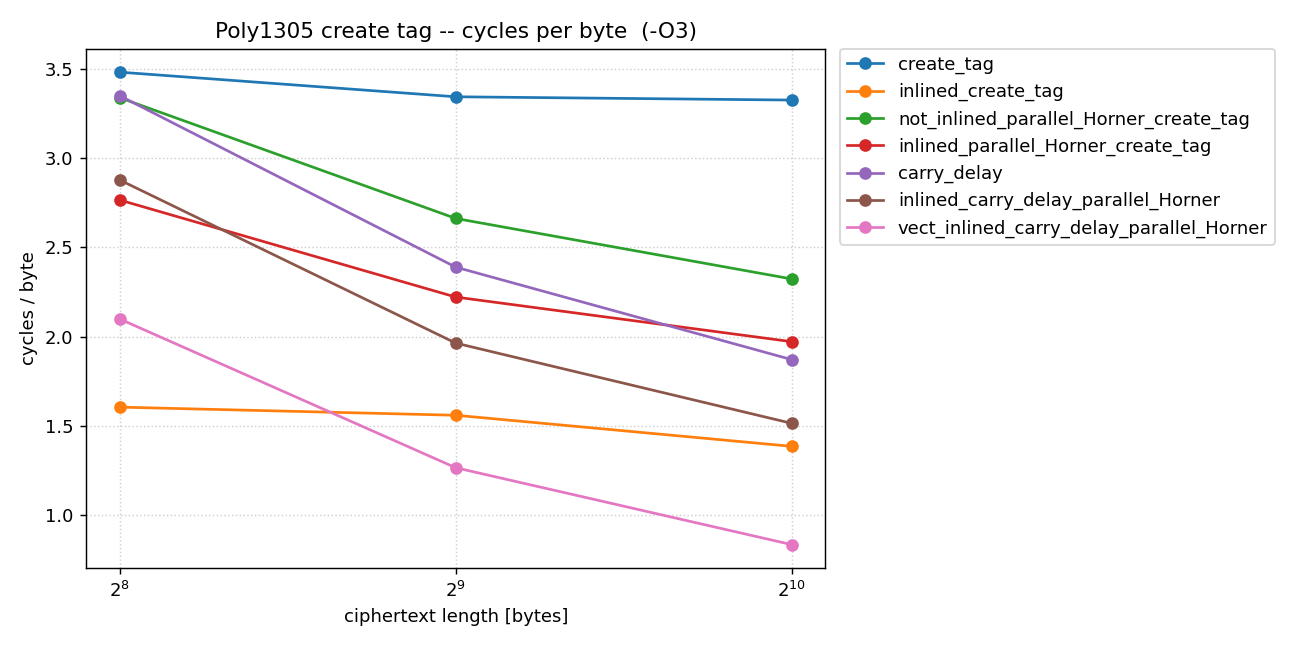
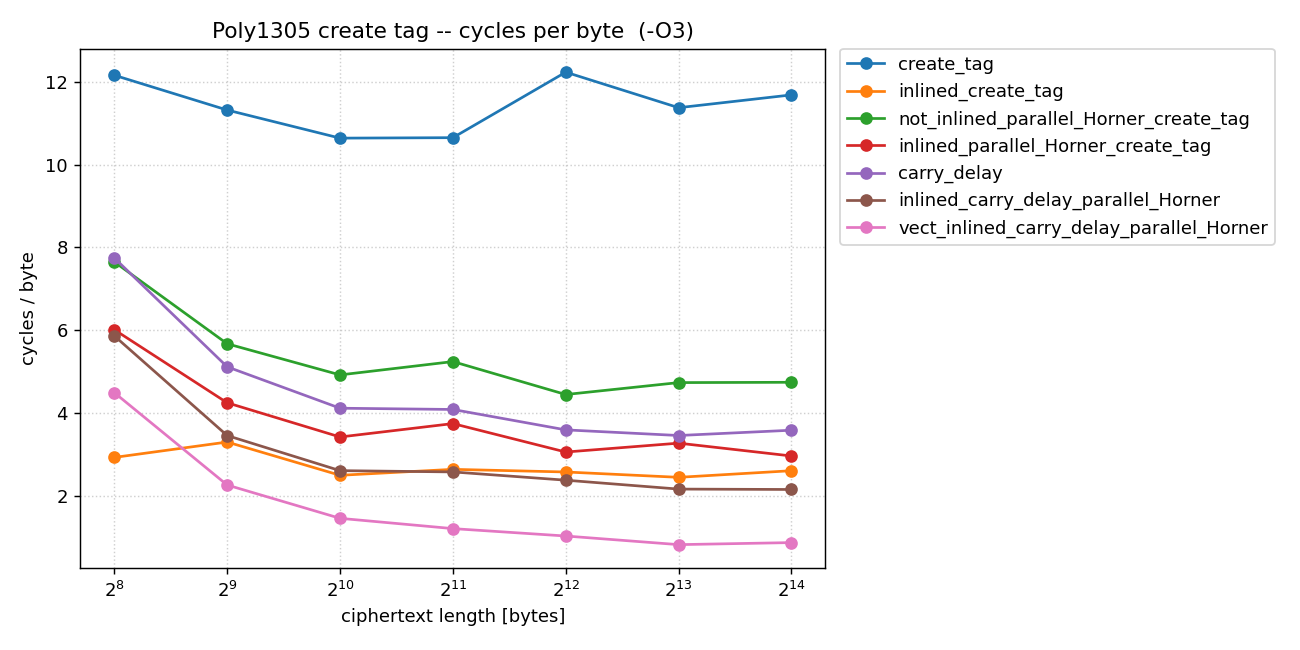
feat: now saves plots in figures/plots folder too and adjusted poly1305 roofline to take new function

diff --git a/time/poly1305/main_tag_choose_len.cpp b/time/poly1305/main_tag_choose_len.cpp
@@ -7,30 +7,57 @@
 #include "benchmark.h"
 #include "utils.h"
 #include "poly1305_tag_opt.h"
+#include "../include/op_computations.h"
 
 void register_functions();
 void add_function(poly1305_create_tag_func f, std::string name, int ops_per_block);
 
 static std::vector<poly1305_create_tag_func> userFuncs;
 static std::vector<std::string>        funcNames;
-static std::vector<int>                opsPerBlock;
 int numFuncs = 0;
 
-void add_function(poly1305_create_tag_func f, std::string name, int ops_per_block) {
+void add_function(poly1305_create_tag_func f, std::string name) {
     userFuncs.push_back(f);
     funcNames.push_back(name);
-    opsPerBlock.push_back(ops_per_block);
     numFuncs++;
 }
 
 void register_functions() {
-    add_function(&create_tag, "create_tag", 146);
-    add_function(&inlined_create_tag, "inlined_create_tag", 146);
-    add_function(&not_inlined_parallel_Horner_create_tag, "not_inlined_parallel_Horner_create_tag", 146);
-    add_function(&inlined_parallel_Horner_create_tag, "inlined_parallel_Horner_create_tag", 146);
-    add_function(&carry_delay, "carry_delay", 146);
-    add_function(&inlined_carry_delay_parallel_Horner, "inlined_carry_delay_parallel_Horner", 146);
-    add_function(&memory_vect_inlined_carry_delay_parallel_Horner, "vect_inlined_carry_delay_parallel_Horner", 146);
+    add_function(&create_tag, "create_tag");
+    add_function(&inlined_create_tag, "inlined_create_tag");
+    add_function(&not_inlined_parallel_Horner_create_tag, "not_inlined_parallel_Horner_create_tag");
+    add_function(&inlined_parallel_Horner_create_tag, "inlined_parallel_Horner_create_tag");
+    add_function(&carry_delay, "carry_delay");
+    add_function(&inlined_carry_delay_parallel_Horner, "inlined_carry_delay_parallel_Horner");
+    add_function(&memory_vect_inlined_carry_delay_parallel_Horner, "vect_inlined_carry_delay_parallel_Horner");
+}
+
+complexity_t get_poly1305_ops(const std::string& func_name, uint64_t data_len) {
+    if (func_name == "create_tag") {
+        return get_create_tag_baseline_complexity(data_len);
+    }
+    else if (func_name == "inlined_create_tag") {
+        return get_create_tag_inlined_complexity(data_len);
+    }
+    else if (func_name == "not_inlined_parallel_Horner_create_tag") {
+        return get_create_tag_not_inlined_parallel_Horner_complexity(data_len);
+    }
+    else if (func_name == "inlined_parallel_Horner_create_tag") {
+        return get_create_tag_inlined_parallel_Horner_complexity(data_len);
+    }
+    else if (func_name == "carry_delay") {
+        return get_create_tag_carry_delay_complexity(data_len);
+    }
+    else if (func_name == "inlined_carry_delay_parallel_Horner") {
+        return get_create_tag_inlined_carry_delay_parallel_Horner_complexity(data_len);
+    }
+    else if (func_name == "vect_inlined_carry_delay_parallel_Horner") {
+        return get_create_tag_vect_inlined_carry_delay_parallel_Horner_complexity(data_len);
+    }
+    else {
+        std::cerr << "ERROR: Unknown function name: " << func_name << "\n";
+        exit(1);
+    }
 }
 
 int main(int argc, char* argv[]) {
@@ -128,7 +155,8 @@ int main(int argc, char* argv[]) {
     std::ofstream opsFile("plots/poly1305_ops.csv");
     opsFile << "function_name,ops_per_block\n";
     for (int i = 0; i < numFuncs; i++) {
-        opsFile << funcNames[i] << "," << opsPerBlock[i] << "\n";
+        complexity_t ops_poly = get_poly1305_ops(funcNames[i], CTXT_LEN);
+        opsFile << funcNames[i] << "," << ops_poly.i_ops << "\n";
     }
     opsFile.close();
 

diff --git a/time/poly1305/plot_poly1305_benchmarks.py b/time/poly1305/plot_poly1305_benchmarks.py
@@ -19,6 +19,8 @@ import matplotlib.pyplot as plt
 
 PLOTS_DIR = os.path.join(os.path.dirname(__file__), "plots")
 CSV_GLOB = os.path.join(PLOTS_DIR, "poly1305_create_tag_*.csv")
+COMBINED_PLOTS_DIR = os.path.join(os.path.dirname(__file__), "../../figures/plots/poly1305")
+
 # set machine specific parameters
 PEAK_PERF = 4  # in ops/cycle
 PEAK_PERF_VEC = 24  # in ops/cycle for vectorized code
@@ -80,6 +82,8 @@ def plot_one(csv_path: str) -> None:
     fig.tight_layout()
     out_cycles = os.path.join(PLOTS_DIR, f"{base}_cycles.png")
     fig.savefig(out_cycles, dpi=130)
+    out_cycles = os.path.join(COMBINED_PLOTS_DIR, f"{base}_cycles.png")
+    fig.savefig(out_cycles, dpi=130)
     plt.close(fig)
 
     # Cycles per byte vs size (semi-log x)
@@ -99,6 +103,8 @@ def plot_one(csv_path: str) -> None:
     )
     fig.tight_layout()
     out_cpb = os.path.join(PLOTS_DIR, f"{base}_cpb.png")
+    fig.savefig(out_cpb, dpi=130)
+    out_cpb = os.path.join(COMBINED_PLOTS_DIR, f"{base}_cpb.png")
     fig.savefig(out_cpb, dpi=130)
     plt.close(fig)
 
@@ -121,7 +127,7 @@ def plot_one(csv_path: str) -> None:
     
     for fn in funcs:
         sizes_array = np.array(sizes)
-        total_ops = ops_map[fn] * (sizes_array // 16)
+        total_ops = np.array(ops_map[fn])
         op_intensity = total_ops / sizes_array
         ops_per_cycle = total_ops / data[fn]
         ax.scatter(op_intensity, ops_per_cycle, s=70, zorder=5, 
@@ -133,10 +139,10 @@ def plot_one(csv_path: str) -> None:
     ax.set_yscale("log", base=2)
     min_x = ridge_point / 4
     max_x = max(all_x) * 2
-    min_y = min(all_y) / 2
+    min_y = 1
     max_y = 26
-    ax.set_xlim(min_x, max_x)
-    ax.set_ylim(min_y, max_y)
+    #ax.set_xlim(min_x, max_x)
+    #ax.set_ylim(min_y, max_y)
     ax.set_xlabel("Operational Intensity [ops/bytes]")
     ax.set_ylabel("Performance [ops/cycle]")
     ax.set_title(f"Poly1305 create tag -- Roofline  (-O{opt_level})")
@@ -149,13 +155,15 @@ def plot_one(csv_path: str) -> None:
     fig.tight_layout()
     out_roofline = os.path.join(PLOTS_DIR, f"{base}_roofline.png")
     fig.savefig(out_roofline, dpi=130)
+    out_roofline = os.path.join(COMBINED_PLOTS_DIR, f"{base}_roofline.png")
+    fig.savefig(out_roofline, dpi=130)
     plt.close(fig)
 
     # Cycles/Ops vs size (log-log)
     fig, ax = plt.subplots(figsize=(10, 5))
     for fn in funcs:
         sizes_array = np.array(sizes)
-        total_ops = ops_map[fn] * (sizes_array // 26)
+        total_ops = np.array(ops_map[fn])
         ops_per_cycle = total_ops / data[fn]
         ax.plot(sizes, ops_per_cycle, marker="o", linewidth=1.5, label=fn)
 
@@ -172,6 +180,8 @@ def plot_one(csv_path: str) -> None:
     )
     fig.tight_layout()
     out_performance = os.path.join(PLOTS_DIR, f"{base}_performance.png")
+    fig.savefig(out_performance, dpi=130)
+    out_performance = os.path.join(COMBINED_PLOTS_DIR, f"{base}_performance.png")
     fig.savefig(out_performance, dpi=130)
     plt.close(fig)
 

diff --git a/time/poly2133/plot_poly2133_benchmarks.py b/time/poly2133/plot_poly2133_benchmarks.py
@@ -19,6 +19,8 @@ import matplotlib.pyplot as plt
 
 PLOTS_DIR = os.path.join(os.path.dirname(__file__), "plots")
 CSV_GLOB = os.path.join(PLOTS_DIR, "poly2133_create_tag_*.csv")
+COMBINED_PLOTS_DIR = os.path.join(os.path.dirname(__file__), "../../figures/plots/poly2133")
+
 # set machine specific parameters
 PEAK_PERF = 4  # in ops/cycle
 PEAK_PERF_VEC = 24  # in ops/cycle for vectorized code
@@ -80,6 +82,8 @@ def plot_one(csv_path: str) -> None:
     fig.tight_layout()
     out_cycles = os.path.join(PLOTS_DIR, f"{base}_cycles.png")
     fig.savefig(out_cycles, dpi=130)
+    out_cycles = os.path.join(COMBINED_PLOTS_DIR, f"{base}_cycles.png")
+    fig.savefig(out_cycles, dpi=130)
     plt.close(fig)
 
     # Cycles per byte vs size (semi-log x)
@@ -99,6 +103,8 @@ def plot_one(csv_path: str) -> None:
     )
     fig.tight_layout()
     out_cpb = os.path.join(PLOTS_DIR, f"{base}_cpb.png")
+    fig.savefig(out_cpb, dpi=130)
+    out_cpb = os.path.join(COMBINED_PLOTS_DIR, f"{base}_cpb.png")
     fig.savefig(out_cpb, dpi=130)
     plt.close(fig)
 
@@ -149,6 +155,8 @@ def plot_one(csv_path: str) -> None:
     fig.tight_layout()
     out_roofline = os.path.join(PLOTS_DIR, f"{base}_roofline.png")
     fig.savefig(out_roofline, dpi=130)
+    out_roofline = os.path.join(COMBINED_PLOTS_DIR, f"{base}_roofline.png")
+    fig.savefig(out_roofline, dpi=130)
     plt.close(fig)
 
 
@@ -173,6 +181,8 @@ def plot_one(csv_path: str) -> None:
     )
     fig.tight_layout()
     out_performance = os.path.join(PLOTS_DIR, f"{base}_performance.png")
+    fig.savefig(out_performance, dpi=130)
+    out_performance = os.path.join(COMBINED_PLOTS_DIR, f"{base}_performance.png")
     fig.savefig(out_performance, dpi=130)
     plt.close(fig)
 

diff --git a/time/chacha-poly2133/plot_chacha_poly2133_benchmarks.py b/time/chacha-poly2133/plot_chacha_poly2133_benchmarks.py
@@ -14,6 +14,7 @@ import matplotlib.pyplot as plt
 
 PLOTS_DIR = os.path.join(os.path.dirname(__file__), "plots")
 CSV_GLOB = os.path.join(PLOTS_DIR, "chacha_poly2133_*.csv")
+COMBINED_PLOTS_DIR = os.path.join(os.path.dirname(__file__), "../../figures/plots/chacha20_poly2133")
 
 # set machine specific parameters
 PEAK_PERF = 4  # in ops/cycle
@@ -77,6 +78,8 @@ def plot_one(csv_path: str) -> None:
     fig.tight_layout()
     out_cycles = os.path.join(PLOTS_DIR, f"{base}_cycles.png")
     fig.savefig(out_cycles, dpi=130)
+    out_cycles = os.path.join(COMBINED_PLOTS_DIR, f"{base}_cycles.png")
+    fig.savefig(out_cycles, dpi=130)
     plt.close(fig)
 
     # Cycles per byte vs size (semi-log x)
@@ -92,6 +95,8 @@ def plot_one(csv_path: str) -> None:
     ax.legend()
     fig.tight_layout()
     out_cpb = os.path.join(PLOTS_DIR, f"{base}_cpb.png")
+    fig.savefig(out_cpb, dpi=130)
+    out_cpb = os.path.join(COMBINED_PLOTS_DIR, f"{base}_cpb.png")
     fig.savefig(out_cpb, dpi=130)
     plt.close(fig)
 
@@ -153,6 +158,8 @@ def plot_one(csv_path: str) -> None:
     fig.tight_layout()
     out_roofline = os.path.join(PLOTS_DIR, f"{base}_roofline.png")
     fig.savefig(out_roofline, dpi=130)
+    out_roofline = os.path.join(COMBINED_PLOTS_DIR, f"{base}_roofline.png")
+    fig.savefig(out_roofline, dpi=130)
     plt.close(fig)
 
     # Cycles/Ops vs size (log-log)
@@ -187,6 +194,8 @@ def plot_one(csv_path: str) -> None:
     )
     fig.tight_layout()
     out_performance = os.path.join(PLOTS_DIR, f"{base}_performance.png")
+    fig.savefig(out_performance, dpi=130)
+    out_performance = os.path.join(COMBINED_PLOTS_DIR, f"{base}_performance.png")
     fig.savefig(out_performance, dpi=130)
     plt.close(fig)
 

diff --git a/time/chacha-poly/plot_chacha_poly_benchmarks.py b/time/chacha-poly/plot_chacha_poly_benchmarks.py
@@ -14,6 +14,7 @@ import matplotlib.pyplot as plt
 
 PLOTS_DIR = os.path.join(os.path.dirname(__file__), "plots")
 CSV_GLOB = os.path.join(PLOTS_DIR, "chacha_poly_*.csv")
+COMBINED_PLOTS_DIR = os.path.join(os.path.dirname(__file__), "../../figures/plots/chacha20_poly2133")
 
 # set machine specific parameters
 PEAK_PERF = 4  # in ops/cycle
@@ -78,6 +79,8 @@ def plot_one(csv_path: str) -> None:
     fig.tight_layout()
     out_cycles = os.path.join(PLOTS_DIR, f"{base}_cycles.png")
     fig.savefig(out_cycles, dpi=130)
+    out_cycles = os.path.join(COMBINED_PLOTS_DIR, f"{base}_cycles.png")
+    fig.savefig(out_cycles, dpi=130)
     plt.close(fig)
 
     # Cycles per byte vs size (semi-log x)
@@ -93,6 +96,8 @@ def plot_one(csv_path: str) -> None:
     ax.legend()
     fig.tight_layout()
     out_cpb = os.path.join(PLOTS_DIR, f"{base}_cpb.png")
+    fig.savefig(out_cpb, dpi=130)
+    out_cpb = os.path.join(COMBINED_PLOTS_DIR, f"{base}_cpb.png")
     fig.savefig(out_cpb, dpi=130)
     plt.close(fig)
 
@@ -153,6 +158,8 @@ def plot_one(csv_path: str) -> None:
     fig.tight_layout()
     out_roofline = os.path.join(PLOTS_DIR, f"{base}_roofline.png")
     fig.savefig(out_roofline, dpi=130)
+    out_roofline = os.path.join(COMBINED_PLOTS_DIR, f"{base}_roofline.png")
+    fig.savefig(out_roofline, dpi=130)
     plt.close(fig)
 
     # Cycles/Ops vs size (log-log)
@@ -187,6 +194,8 @@ def plot_one(csv_path: str) -> None:
     )
     fig.tight_layout()
     out_performance = os.path.join(PLOTS_DIR, f"{base}_performance.png")
+    fig.savefig(out_performance, dpi=130)
+    out_performance = os.path.join(COMBINED_PLOTS_DIR, f"{base}_performance.png")
     fig.savefig(out_performance, dpi=130)
     plt.close(fig)
 

diff --git a/time/poly1305/op-computation.c b/time/poly1305/op-computation.c
@@ -195,7 +195,7 @@ complexity_t get_create_tag_inlined_parallel_Horner_complexity(uint64_t data_len
     uint64_t after_loop = 4*(4*count_mulmod_p()+ 4* count_add_large_nums_55() +1) + 4 + 7 + 4*(4) + 4*(15);
 
     uint64_t i_ops = after_loop + ops_loop;
-
+    c.i_ops = i_ops;
     c.byte_transfer = byte_transfer;
     return c;
 }

diff --git a/time/chacha-poly/run_chacha_poly_benchmarks.py b/time/chacha-poly/run_chacha_poly_benchmarks.py
@@ -14,7 +14,7 @@ OPERATIONS = [
     ("decrypt", os.path.join(BIN_DIR, "bench_chacha_poly_decrypt_")),
 ]
 
-SIZES = [1 << i for i in range(10, 14)]
+SIZES = [1 << i for i in range(10, 26)]
 
 
 def run(binary: str, arg: str) -> str:
